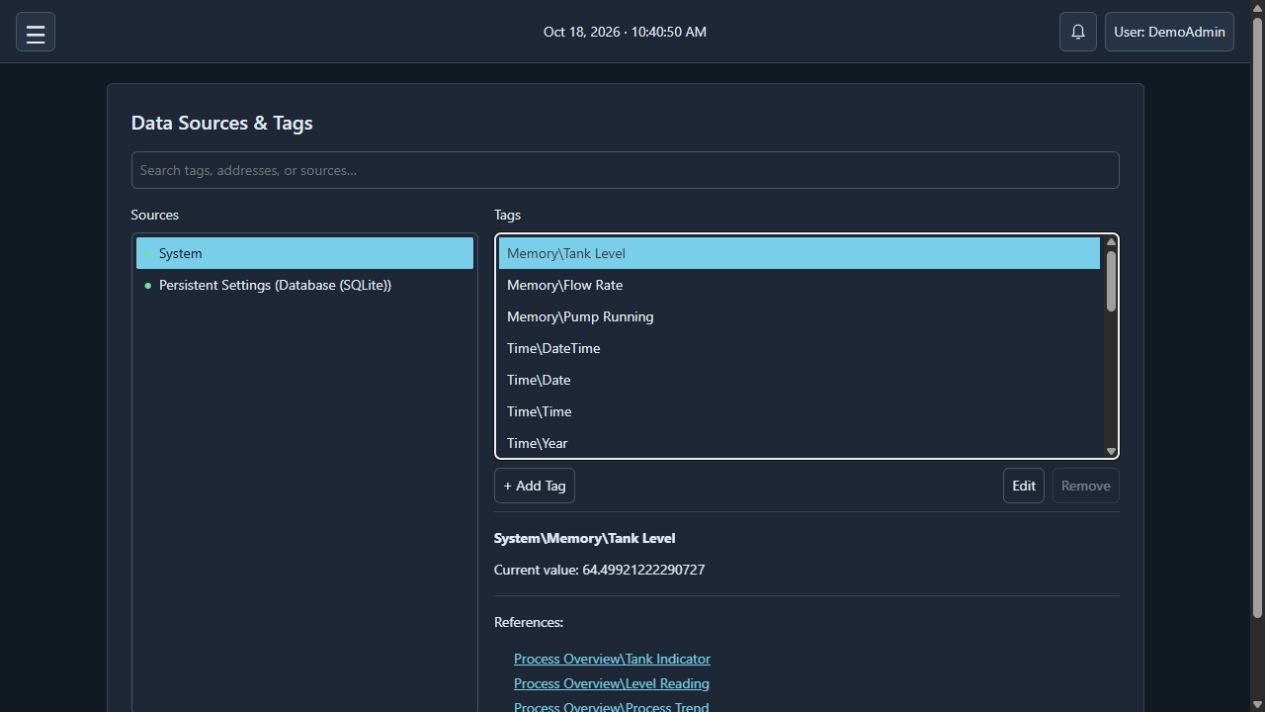
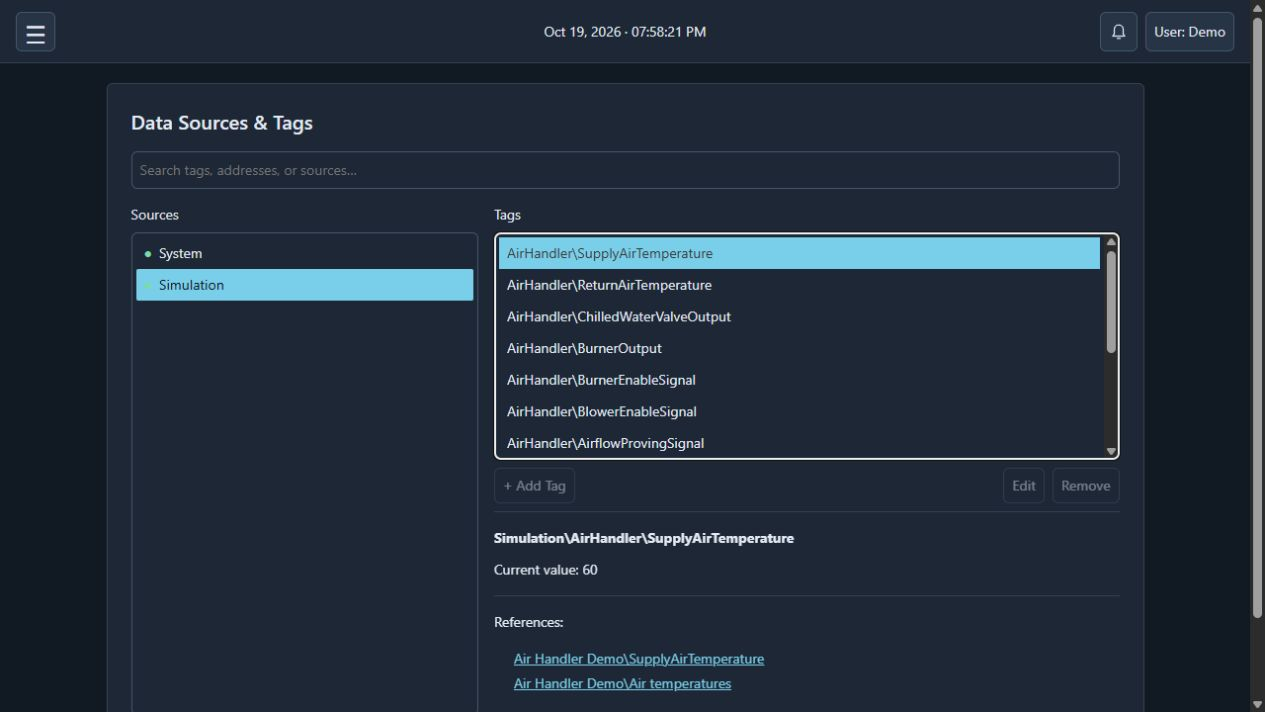
readme updates and getting ready for switch to public

diff --git a/README.md b/README.md
@@ -1,170 +1,101 @@
 # Oops! All Buttons
 
-A browser-based HMI for building live operator screens, connecting device tags, and monitoring alarms. Built with Python and plain HTML, CSS, and JavaScript.
+A browser-based HMI for building operator screens, connecting device tags, and watching live equipment data. Built with Python and plain HTML, CSS, and JavaScript.
 
-## Safety and network warning
+**[Getting started guide](docs/GETTING_STARTED.md)** — from first launch to connecting a device, adding tags, and building a live page.
 
-This software can write to PLCs and other controllers. Incorrect commands or configuration can cause unexpected machinery movement, serious injury, death, or property damage. Use only if qualified and authorized, test with safely isolated equipment, and verify your configuration. Keep emergency stops and safety interlocks independent of this HMI; it is not a safety system.
+## Get started
 
-Keep the HMI and connected devices on a **trusted, access-controlled network**. Do not expose the server or device ports directly to the internet. For remote access, use a securely configured VPN and limit access to authorized users.
+**Windows:** Download the portable ZIP from **[Releases](../../releases)**, extract the entire folder, and run `OopsAllButtons.exe`. Python and the driver dependencies are included.
 
-You are responsible for validating suitability and operating the system safely. The software is provided **“as is,” without warranties**. To the extent permitted by applicable law, the developer assumes no responsibility or liability for injury, damage, loss, or other consequences of its use.
+Create an administrator account on first run, or restore an existing backup. The tray menu provides **Launch**, **Restart Server**, and **Exit**. Keep the `files` folder beside the executable; your project is saved in `data`.
 
-## What you can do
+**Try it without a controller:** Open **Administration → Simulation**, enable the Air Handler, and save. Its tags appear under `Simulation\AirHandler`. Add controls to a page, bind them to those tags, and set `UnitEnableSignal` to `1` to start the model. Outdoor temperature, discharge setpoint, and room heat load are writable. Temperatures use °F.
 
-- **Design pages** with drag-and-drop controls, shapes, groups, actions, and events.
-- **Connect tags** through PyComm3, BACnet/IP, Modbus TCP/RTU, and MQTT.
-- **Use local data** with System memory tags, time and runtime values, and persistent SQLite tags.
-- **Build sheets** with formulas and tag references.
-- **Watch live values** with numeric displays, level indicators, and multitag trends.
-- **Manage alarms** with trigger conditions, focused notifications, silencing, and history.
-- **Manage access** with users, administrators, roles, kiosk mode, and per-user preferences.
-- **Back up and restore** the project from Administration or restore a backup during first run.
+## What’s included
+
+- A visual designer with controls, shapes, groups, actions, and conditional events.
+- SVG/DXF symbols, images, numeric displays, level indicators, and multitag live trends.
+- PyComm3, BACnet/IP, Modbus TCP/RTU, and MQTT connections.
+- System memory/time tags, persistent SQLite tags, and calculated sheets.
+- Alarms with silencing, history, focused notifications, and access roles.
+- Users, kiosk mode, themes, and project backup/restore.
+- A built-in Air Handler simulation for learning and testing.
+
+## Testing status and continued work
+
+This is an early public release, and testing is still limited:
+
+- **Modbus RTU:** untested with physical adapters and devices. Automated simulations have been checked, but real hardware operation is unverified.
+- **BACnet/IP:** mostly untested; broader device and network testing is needed.
+- **Modbus TCP:** lightly tested; more device compatibility and reliability testing is needed.
+
+Planned additions include **Modbus device profiles** to simplify configuration, **more built-in symbols** for designing pages, and **built-in help** so instructions are available directly inside the app.
 
 ## Screenshots
 
-A demo project using simulated values.
-
-### Designer
-
-![Page designer with the toolbox, Explorer, canvas, and control properties](docs/images/designer.png)
+A demonstration page built with ordinary controls and the built-in HVAC simulation. The diagram is an example you can create in the designer; it is not an automatically generated screen.
 
 ### Live view
 
-![Live process page with a level indicator, numeric values, a button, and a multitag trend](docs/images/live-view.png)
+![Air Handler demo with live temperatures, heating and cooling outputs, and temperature trends](docs/images/live-view.png)
+
+### Designer
+
+![Air Handler page in the designer with the Explorer and control properties](docs/images/designer.png)
 
 ### Data Sources & Tags
 
-![Data source and tag management with current values and linked control references](docs/images/data-sources-tags.png)
-
-## Run the portable app (Windows)
-
-Download the Windows portable ZIP from **Releases**, extract the whole folder, and double-click `OopsAllButtons.exe`. Python is included. The browser opens and the tray icon appears automatically. Use **Launch** in the tray to reopen the app or **Exit** to quit.
-
-Your project lives in the `data` folder beside the executable. Keep the `files` folder in place. See [BUILDING.md](BUILDING.md) for building releases, GitHub uploads, and updating a portable installation.
+![Built-in Air Handler tags with a live value and page references](docs/images/data-sources-tags.png)
 
 ## Run from source
 
-Install Python 3.11 or newer, then open a terminal in the project folder:
+Use Python 3.11 or newer. From the project folder:
 
 ```sh
+python -m venv .venv
+# Windows:
+.venv\Scripts\activate
+# Linux: source .venv/bin/activate
+python -m pip install -r requirements.txt
 python run.py
 ```
 
-The browser opens at [localhost:8080](http://127.0.0.1:8080), and the desktop tray is enabled by default. Install `requirements.txt` for tray support, or use `--no-tray` for the standard-library-only server. On first run, complete the safety acknowledgement and create an administrator account. Passwords require at least eight characters.
+On Linux, use `python3` to create the environment. The browser opens at **http://127.0.0.1:8080**. Use `--no-browser --no-tray` when running without a desktop.
 
-The core server, System tags, and SQLite storage need no additional Python packages. Install the optional packages for the features you use:
+Install the additional dependencies for the features you need:
 
-| Feature | Install command |
+| Feature | Requirements file |
 | --- | --- |
-| PyComm3 | `python -m pip install -r requirements-plc.txt` |
-| BACnet/IP | `python -m pip install -r requirements-bacnet.txt` |
-| Modbus TCP / RTU | `python -m pip install -r requirements-modbus.txt` |
-| MQTT | `python -m pip install -r requirements-mqtt.txt` |
-| Sheet formulas | `python -m pip install -r requirements-sheet.txt` |
-| DXF symbol import | `python -m pip install -r requirements-dxf.txt` |
-| Desktop tray | `python -m pip install -r requirements.txt` |
+| PyComm3 | `requirements-plc.txt` |
+| BACnet/IP | `requirements-bacnet.txt` |
+| Modbus TCP / RTU | `requirements-modbus.txt` |
+| MQTT | `requirements-mqtt.txt` |
+| Sheet formulas | `requirements-sheet.txt` |
+| DXF import | `requirements-dxf.txt` |
 
-On Linux, use `python3` to create a virtual environment, then run the commands above from that environment:
+For example: `python -m pip install -r requirements-modbus.txt`.
 
-```sh
-python3 -m venv .venv
-source .venv/bin/activate
-```
+For access from another computer, use `python run.py --host 0.0.0.0` and visit `http://<server-IP>:8080`. The default port is 8080. `--kiosk` launches a supported browser fullscreen; `--port` changes the server port.
 
-## Start options
+## Backups and updates
 
-```sh
-python run.py --host 0.0.0.0 --port 8080
-```
+Use **Administration → Backup/Restore** to download a backup. Restores take effect after restarting the server.
 
-| Option | Purpose |
-| --- | --- |
-| `--host` | Address to listen on. Defaults to `127.0.0.1`; use `0.0.0.0` for network access. |
-| `--port` | HTTP port. Defaults to `8080`. |
-| `--no-browser` | Skip automatic browser launch. |
-| `--kiosk` | Open a fullscreen kiosk browser at startup. |
-| `--no-tray` | Disable the tray icon (Launch, Restart Server, and Exit). |
+For a portable update, exit the old server, extract the new release into a new folder, and copy your `data` folder beside the new executable. If a restore is pending, also copy `data.restore.zip`. Keep the old installation until you have verified the update.
 
-Startup lists available IPv4 interfaces. For network access, open `http://<server-IP>:8080` from another device and allow the server through the host firewall. The app serves HTTP. Press **Ctrl+C** in the terminal to stop the server.
+See [BUILDING.md](BUILDING.md) for portable builds and releases, and [DEVELOPING.md](DEVELOPING.md) for development notes.
 
-## Build your first page
+## Safety and network warning
 
-1. Open **Data Sources & Tags**, select **System**, and add a memory tag.
-2. Open **Pages**, create or edit a page, and place a Numeric Display linked to that tag.
-3. Add a Button with an action that writes to the same tag.
-4. Select **Save & View** to use the page live.
+This software can write to PLCs and controllers operating dangerous or moving equipment. Incorrect commands can cause serious injury, death, or property damage. Use only if qualified and authorized, test safely, and keep emergency stops and safety interlocks independent of this HMI. **It is not a safety system.**
 
-## Project data
+Keep the server and devices on a **trusted, access-controlled network**. Do not expose them directly to the internet. Use a securely configured VPN for remote access. The app serves HTTP.
 
-Configuration, accounts, pages, tags, and imported images are stored in `data/hmi.sqlite3`. Sheet files live in `data/sheets`; persistent tag databases live in `data/databases`.
-
-Use **Administration → Backup/Restore** to download a backup or stage a restore. Restores take effect after restarting the server.
-
-## Development
-
-See [DEVELOPING.md](DEVELOPING.md) for architecture, styling guidelines, and development notes.
-
-## Built-in symbol library manager
-
-The standalone desktop manager imports SVG and basic 2D DXF symbols, previews them in a searchable category grid, and lets you rename, categorize, replace the artwork, or remove them. It does not need the HMI server running.
-
-```powershell
-python -m venv .venv-symbol-manager
-.venv-symbol-manager\Scripts\python.exe -m pip install -r requirements-symbol-manager.txt
-.venv-symbol-manager\Scripts\python.exe symbol_library_manager.py
-```
-
-On Linux, use `.venv-symbol-manager/bin/python` instead. The manager also accepts `--library PATH` for a different library folder.
-
-Artwork is copied into `static/symbols/assets` as sanitized SVG, with names and categories in `static/symbols/index.json`. Original input files are left alone. Commit and push the entire `static/symbols` folder together with the manager code. Pulling the repository then brings down the latest built-in symbols. Future portable builds include these assets automatically; existing portable downloads need a new release to receive changes.
-
-The library starts empty. In the designer, select a Symbol and open Content → Library to browse its categories or filter by name. Reopen the Content section to pick up changes made in the manager. Choose File imports an SVG or DXF directly. Library selections are copied into the normal saved image assets; removing a library symbol does not alter artwork already embedded in saved controls.
-
-### Solid foreground shapes from LibreCAD
-
-Draw a closed boundary and create a **solid hatch**. Put that hatch on a layer named `FORECOLOR` (case insensitive) to have its filled area follow the Symbol's **Fore Color**, including color events. Other solid hatches and SOLID/TRACE entities use **Back Color** by default. Strokes continue to use Fore Color; Stroke Width only changes actual strokes, not filled geometry. Closed outlines alone remain unfilled.
-
-This works through both Choose File and the Symbol Library Manager. Re-import older DXF library entries to apply the layer convention; existing controls retain their saved artwork until replaced.
-
-Symbols and images have a **Rotate 90°** button in Content. Each click turns the artwork clockwise inside the existing control boundary; the source artwork is unchanged. Polyline has the same button under Shape; it rotates the editable points about their center and recalculates the boundary.
-
-### Fullscreen browser launch
-
-```powershell
-python run.py --kiosk
-```
-
-For a newly built portable release, use `OopsAllButtons.exe --kiosk`, or add `--kiosk` to its shortcut target. The tray offers **Launch**, **Restart Server**, and **Exit**. Launch uses the same fullscreen option as startup. Browser launch and the tray are enabled by default. `--no-browser` skips startup browser launch; Launch still uses fullscreen mode when `--kiosk` is set. `--no-tray` disables the tray.
-
-Kiosk launch uses an installed Microsoft Edge, Google Chrome, or Chromium browser in a fullscreen window without the address bar or window borders. It uses a separate profile in the operating system's user cache/local application-data folder. Close the browser with Alt+F4 on Windows/Linux (Command+Q on macOS); the server remains running until stopped. This display option does not change user accounts, access roles, or the HMI's per-user kiosk setting. A supported browser and a graphical desktop session are required.
+You are responsible for validating the system and operating it safely. This software is provided **“as is,” without warranties**. To the extent permitted by applicable law, the developer assumes no responsibility or liability for injury, damage, loss, or other consequences of its use.
 
 ## Acknowledgments
 
 I take no credit for the coding work in this project—it was coded with ChatGPT Codex.
 
 Thank you to all the developers who shared their knowledge, code, tools, and documentation. Your contributions made this project possible.
-
-**Restart Server** cleanly stops and relaunches the application with the same startup options. It reloads saved project data and source-code changes when running from Python. Save browser edits first; you will need to sign in again, and existing browser tabs may need refreshing. A portable executable must be rebuilt to include code changes. **Exit** shuts down the server and removes the tray icon.
-
-
-## Modbus RTU / RS-485
-
-Install `requirements-modbus.txt`, restart the server, then add a **Modbus TCP / RTU (PyModbus)** source and choose **RTU (Serial / RS-485)**. Existing Modbus sources default to TCP. Tag addresses, register types, byte/word ordering, and read/write behavior are shared between TCP and RTU.
-
-- Create one source per device Unit ID (1–247), selecting the serial port on the **server**. Detected ports are suggested; you can also type a port such as `COM3`, `/dev/ttyUSB0`, or a persistent `/dev/serial/by-id/...` path. On Linux the server account needs permission to access the port.
-- Devices on one physical port share a single serial client and a FIFO request queue. Reads yield between register groups, and writes use the same queue. Sources on that port must agree on baud rate, parity, stop bits, response timeout, and local echo. Data bits are fixed at 8. Conflicting settings are rejected; remove other sources sharing the port before changing bus settings on the remaining source.
-- Use a USB-to-RS-485 adapter with automatic direction control. Manual RTS direction switching and broadcast Unit ID 0 are not supported. This application should be the only Modbus client controlling the bus.
-- Defaults are 19200 baud, no parity, one stop bit, a 0.5-second response timeout, and a 5-second initial offline retry delay. Match your equipment and allow enough response time for the baud rate and register count.
-- Communication failures stop the remainder of that source's batch and apply per-Unit-ID backoff: a minimum cooldown of 5, 10, 20, 40, then 60 seconds before the next scheduled poll can try again. Background polling intervals can make recovery take longer. Other devices continue taking turns. The first failed request still occupies the bus until its timeout; backoff limits repeated disruption. A valid Modbus exception reply does not trigger offline backoff, and failed writes are never automatically retried.
-- **Test Connection** verifies that the serial port can be opened; actual device connectivity is verified by reading configured tags. Source details show shared-source count, queue depth, bus request/failure counts, timing, and retry countdown. Replacing the last source or shutting down closes the shared port.
-
-RTU was verified with concurrent simulated devices and actual PyModbus/pySerial RTU frames over a local test transport. Testing with physical adapters and devices is still needed. Updated source installations need the new dependency; older portable releases require a new build to include RTU support.
-
-### Air Handler simulation
-
-Enable **Administration → Simulation → Enable Simulation** and save to add the built-in `Simulation` source. The Air Handler module provides tags under `Simulation\AirHandler`, including supply/return/outdoor temperatures, heating and cooling outputs, fan commands, and airflow proof. Temperatures are in Fahrenheit and outputs are percentages.
-
-Use normal actions to write `UnitEnableSignal` (0/1), `DischargeAirSetpoint` (35–120 °F), `OutdoorAirTemperature` (−40–130 °F), and `RoomLoadWatts` (0–15,000 W). The unit starts off; calculated outputs are read-only. The approximate room model includes outdoor-air mixing, heat gain, and a three-second airflow proving delay. Simulation speed can be increased for testing.
-
-Settings persist in backups, but saving simulation settings or restarting resets the model and its inputs. Disabling retains the tag paths with bad quality so page bindings remain intact. After a long server pause, catch-up is limited to five simulated minutes.

diff --git a/docs/GETTING_STARTED.md b/docs/GETTING_STARTED.md
@@ -1,0 +1,108 @@
+# Getting started with Oops! All Buttons
+
+Go from a first launch to a live value on your own page. You will connect a data source, add a tag, create a page, and place a control. You can also follow along without equipment using the built-in Air Handler simulation.
+
+Before connecting real equipment, read the [safety and network warning](../README.md#safety-and-network-warning). Start with a harmless read-only value. Buttons and actions can write to real controllers.
+
+## 1. Start the app
+
+1. Download the Windows portable ZIP from the repository’s Releases page.
+2. Extract the whole folder into a writable location. Keep the `files` folder beside `OopsAllButtons.exe`.
+3. Run `OopsAllButtons.exe`. The browser opens at **http://127.0.0.1:8080**.
+4. Read and acknowledge the first-run notice, then create your administrator account. Passwords need at least eight characters. If you already have a project backup, you can restore it during first run instead.
+
+For a source installation, follow [Run from source](../README.md#run-from-source).
+
+Use the **three-line menu at the top left** to move between Data Sources & Tags, Pages, Administration, and the other screens. The steps below assume you are signed in as an administrator.
+
+## 2. Connect a device
+
+A **data source** is a connection to a controller, broker, or local data store. A **tag** is an individual value from that source.
+
+1. Open **Data Sources & Tags**.
+2. Click **+ Add Source**.
+3. Give it a recognizable name, such as `Main PLC`, and choose the driver that matches your device.
+4. Enter the connection settings. Use **Test Connection**, review the result, and click **Save**.
+
+The device must be reachable from the computer running the **server**, even if your browser is on another computer. Local network interfaces and serial ports also belong to the server.
+
+| Driver | What to enter |
+| --- | --- |
+| PyComm3 | Device network path and controller mode: Logix, SLC, or CIP. Use Auto Select if appropriate for your controller. |
+| BACnet/IP | The server’s local network interface and, if needed, a discovery target. Match the device network settings. |
+| Modbus TCP / RTU | Select TCP or RTU. TCP needs a device host, port, and Unit ID. RTU needs a serial port, Unit ID, and matching serial settings. |
+| MQTT | Broker host, port, and any required authentication/TLS settings. |
+
+For a first **Modbus TCP** connection, select **TCP (Ethernet)**, enter the device IP address, use its configured port (usually `502`), and enter its Unit ID. Leave polling intervals at their defaults initially. Testing the connection is useful, but successfully reading a real tag is the next check.
+
+For **RTU**, Test Connection checks whether the serial port opens; it does not prove that a device is answering. Devices sharing a port must use matching serial settings. Physical RTU operation remains untested; see the [testing status](../README.md#testing-status-and-continued-work).
+
+### No device available?
+
+Open **Administration → Simulation**, check **Enable Simulation** and **Air Handler**, and click **Save**. The `Simulation` source and its tags are created automatically. You do not need to add a source or create those tags manually.
+
+Use `Simulation\AirHandler\SupplyAirTemperature` for the display in step 4, and `Simulation\AirHandler\UnitEnableSignal` for the button in step 5. The unit starts off; the button will turn it on. The model uses °F. Saving simulation settings or restarting resets its values.
+
+## 3. Add and check a tag
+
+Select your source in **Data Sources & Tags**, then click **+ Add Tag**.
+
+| Source | How to choose the value |
+| --- | --- |
+| PyComm3 Logix | Browse the controller’s tags, expand structures or arrays if necessary, select a usable value, and save. SLC/CIP use address-entry dialogs instead. |
+| BACnet/IP | Expand a device, choose an object, select a scalar property, name the tag, and save. |
+| Modbus | Enter a tag name, area, zero-based offset, data type, and byte/word order from the device’s register map. Use **Read Value** before saving. |
+| MQTT | Browse discovered topics or enter the topic directly, give it a tag name, and save. |
+| System | Add a named memory tag for a temporary local value. No device connection is required. |
+
+**Modbus example:** If the device manual identifies the first holding register as `40001` and says it is an unsigned 16-bit value, choose **Holding registers**, offset **0**, and **UINT16**. Do not enter `40001` as the offset. Match the device’s actual map and encoding; this example is not a universal device address.
+
+Select the saved tag and check **Current value**. You should see a believable value rather than “unavailable” before moving on. A tag’s displayed path combines its source, optional folder, and name, such as `Main PLC\Temperature`.
+
+The screenshot below uses the built-in simulation. **References** lists the saved controls and trends using the selected tag.
+
+![Simulation source, Air Handler tags, current value, and saved page references](images/data-sources-tags.png)
+
+## 4. Create a page and display the value
+
+1. Open **Pages**, click **+ Add Page**, enter a page name, and save.
+2. Select the page and click **Edit Page**, or click its preview.
+3. In the left toolbar, choose **Numeric Display**. Hover over an icon to see its name.
+4. Click the first corner on the canvas, then the opposite corner to set the control’s size. **Escape** or **Cancel** stops placement.
+5. Select the control. In the right sidebar’s **Properties → Content**, click **Tag**, choose your source and tag, then click **Confirm**.
+6. Set **Display Digits** and optional **Unit Text**, such as ` °F` or ` psi`. Unit text labels the value; it does not convert or scale it.
+7. Give the control a useful name at the top of the right sidebar, such as `Supply Temperature`.
+8. Click **Save & View** to save the page and use it live. **Edit Page** takes you back to the designer.
+
+The designer below shows a Numeric Display linked to the simulation’s supply-air temperature. The surrounding diagram was built from ordinary controls and shapes; it is not added automatically when you enable Simulation.
+
+![Designer showing the selected supply-temperature display and its tag and unit settings](images/designer.png)
+
+## 5. Add a button when you are ready to write
+
+Try this with the simulation first. Only use a real writable device tag when it is safe to operate the equipment.
+
+1. Add a **Button** using the same two-corner placement process.
+2. With it selected, use **Properties → Content → Edit** to set its text, such as `Unit On / Off`.
+3. Open the **Actions** tab and click **+**.
+4. Choose **Click** for the mouse event and **Toggle** for the action.
+5. Select a writable boolean tag. For the HVAC simulation, use `Simulation\AirHandler\UnitEnableSignal`.
+6. Click **Save & View**, then press the button. The simulated blower starts, airflow proves after a short delay, and the supply temperature begins responding.
+
+New actions default to Mouse Down and Toggle. Choose Click explicitly for this example. For a numeric write, use **Set To** with an action value or **Value Input** to prompt the operator.
+
+**Actions** run commands, such as writing a tag. **Events** change appearance or content when a condition is true—for example, changing a color when a value exceeds a limit.
+
+## 6. Save a backup
+
+After saving your page, open **Administration → Backup/Restore** and download a backup. It lets you move or restore the project later. Keep it secure: backups include accounts and driver credentials.
+
+To stop the portable server, choose **Exit** from its tray menu. Closing the browser alone leaves the server running.
+
+## If a value is unavailable
+
+- Check the selected source and tag address, then try the connection/read test again.
+- Verify the server has a route to the device and the correct interface is selected.
+- For Modbus, check Unit ID, area, offset, data type, and byte/word order.
+- For source installations, install the driver’s requirements file and restart.
+- Open **Administration → Server Status → Error Log** for details.

diff --git a/FUTURE_IDEAS.md b/FUTURE_IDEAS.md
@@ -2,6 +2,14 @@
 
 Ideas to revisit when useful. These are deferred improvements, not scheduled work.
 
+## Load HVAC Demo
+
+Added: October 19, 2026. Status: deferred.
+
+Add a **Load HVAC Demo** button under **Administration → Simulation**. Enable the Air Handler simulator and add a ready-to-use page with a coil/heater/blower schematic, live temperatures, heating/cooling outputs, a unit enable button, and temperature trends. Build it from ordinary editable controls and shapes so new users can explore how bindings, actions, and trends work without connecting equipment.
+
+Preserve existing pages and simulation configuration, and avoid duplicate demo pages on repeated loads. Use the HVAC README screenshots as the visual reference. The temporary screenshot-project generator is retained locally at `work/readme_hvac_demo.py` (outside the application repository); bring the example into the repository when implementing this feature.
+
 ## BACnet reliability and diagnostics
 
 Added: October 17, 2026. Status: deferred.
